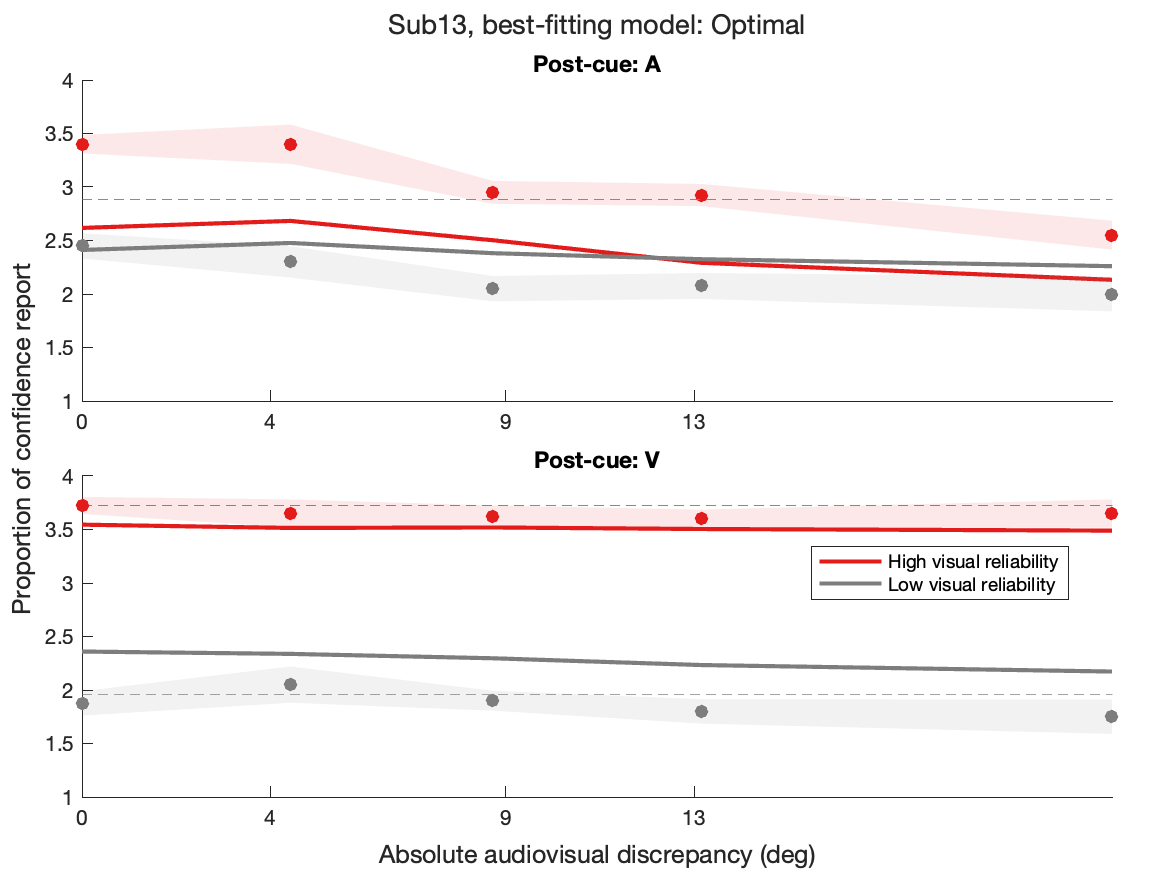
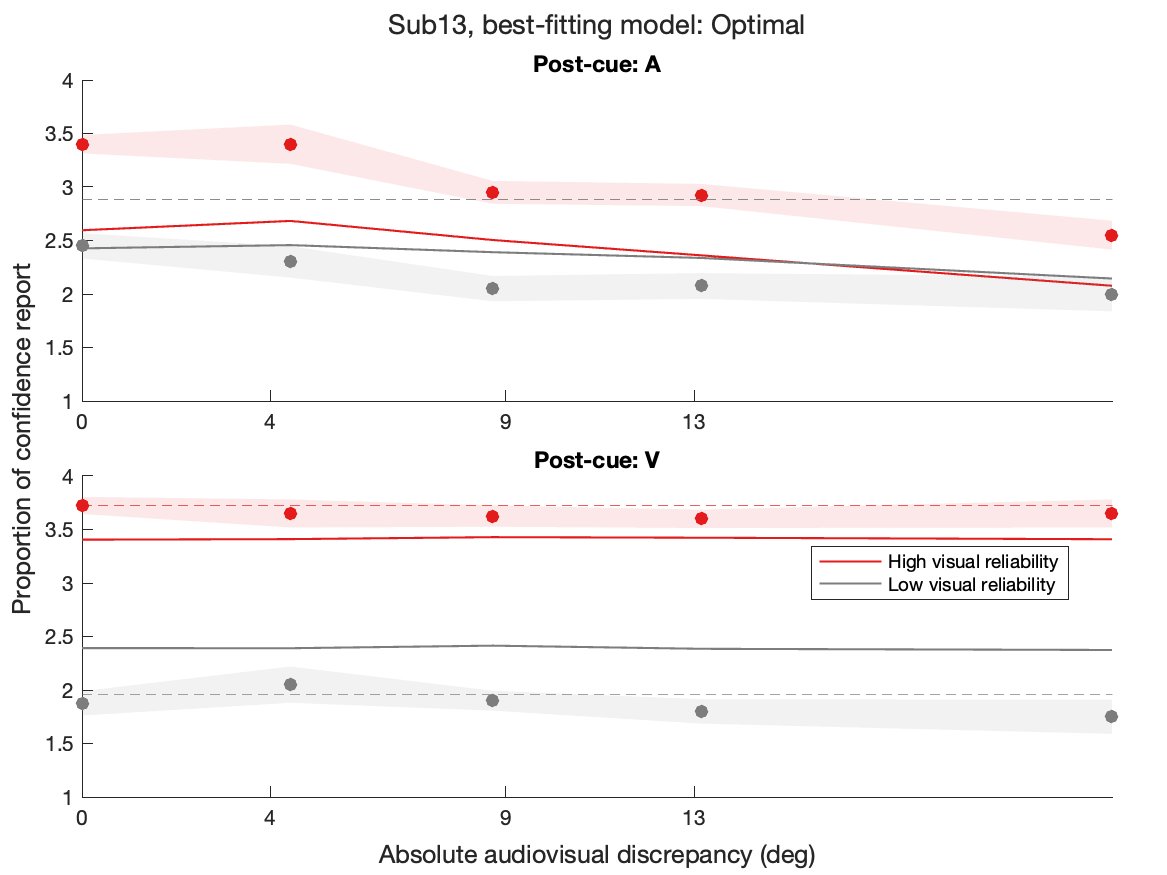
finish prediction figure

Changed region(s): [[0.0617, 0.2469, 0.9563, 0.3394], [0.0617, 0.7097, 0.9563, 0.7714], [0.0617, 0.5863, 0.9563, 0.6789]]

diff --git a/modelFit/uniBiLoc_joint_sharedSigma/plotModelPrediction.m b/modelFit/uniBiLoc_joint_sharedSigma/plotModelPrediction.m
@@ -1,7 +1,7 @@
 clear; close all; rng('shuffle');
 
-sub_slc = 13;
-ses_slc = 1; % bimodal sessions
+sub_slc = 15;
+ses_slc = 1:3; % bimodal sessions
 
 models = {'Heuristic','Suboptimal','Optimal'};
 
@@ -18,6 +18,7 @@ addpath(genpath(result_dir))
 %% plot set up
 
 lw = 1;
+pred_lw = 2;
 fontSZ = 15;
 titleSZ = 20;
 dotSZ = 80;
@@ -68,19 +69,20 @@ for i = 1:2
 end
 sgtitle(sprintf('Sub%i, best-fitting model: %s', sub_slc, models{d}), 'FontSize', titleSZ)
 
-%% plot unimodal localization
+%% first panel: plot unimodal localization
 
 figure; 
-set(gcf, 'Position',[10 10 1500 500])
+set(gcf, 'Position',[10 10 1500 800])
 
 subplot(2,3,[1,4])
+title('Unimodal localization', 'FontSize',titleSZ)
 set(gca, 'LineWidth', lw, 'FontSize', fontSZ, 'TickDir', 'out')
 xlabel('Stimulus location', 'FontSize', titleSZ)
 ylabel('Localization','FontSize', titleSZ)
 hold on
-axis equal
+
 % sA = sV for uni task
-lim = max(model.uni_sA,[],'all');
+lim = 15;
 
 for j = 1:3
 
@@ -96,15 +98,14 @@ for j = 1:3
         'HandleVisibility', 'off');
 
     % prediction
-    plot(model.uni_sA, mean(pred.uni_loc(j,:,:),3),'-','LineWidth',lw,'Color',clt(j,:));
+    plot(model.uni_sA, mean(pred.uni_loc(j,:,:),3),'-','LineWidth',pred_lw,'Color',clt(j,:));
 
 end
 plot([-lim, lim], [-lim*1.2, lim*1.2],'k--','LineWidth',lw)
 
-%% analyze data and prediction
+%% second panel: plot unimodal localization
 
 pred.biExpInfo = data.biExpInfo;
-% interpolateOption = false;
 
 [pred_mean_conf, pred_std_mean_conf, pred_uni_pconf, ~,...
     pred_mean_ve, pred_std_ve, ~] = analyze_data(sub_slc, ses_slc, pred);
@@ -118,21 +119,18 @@ num_cue               = numel(cue_label);
 rel_label             = {'High visual reliability','Low visual reliability'};
 num_rel               = numel(rel_label);
 
-figure; hold on
-t = tiledlayout(1, 2);
-title(t,sprintf('Sub%i, best-fitting model: %s', sub_slc, models{d}))
-xlabel(t, 'Audiovisual discrepancy (V-A, deg)');
-ylabel(t, 'Shift of localization');
-t.TileSpacing = 'compact';
-t.Padding = 'compact';
-
+sgtitle(sprintf('Sub%i, best-fitting model: %s', sub_slc, models{d}),'FontSize',titleSZ)
+sp_idx = [2,5];
 for cue = 1:num_cue
 
-    nexttile
+    subplot(2,3,sp_idx(cue))
+    set(gca, 'LineWidth', lw, 'FontSize', fontSZ, 'TickDir', 'out')
+
     title(cue_label{cue})
-    axis equal
     hold on
     xticks(round(raw_diff))
+    xtickangle(45)
+    ylabel('Shift of localization');
 
     for rel = 1:num_rel
 
@@ -145,12 +143,8 @@ for cue = 1:num_cue
             clt(rel+1,:),'EdgeColor','none','FaceAlpha',0.1, ...
             'HandleVisibility', 'off');
 
-%         % Add error bars
-%         errorbar(raw_diff, squeeze(mean_ve(:, cue, rel)), squeeze(std_ve(:, cue, rel)), 'o', ...
-%             'Color', clt(rel+1,:), 'LineStyle', 'none', 'LineWidth', 2, 'CapSize', 0);
-
         % plot prediction
-        l(rel) = plot(raw_diff, squeeze(pred_mean_ve(:, cue, rel)), '-','Color',clt(rel+1,:),'LineWidth',lw);
+        l(rel) = plot(raw_diff, squeeze(pred_mean_ve(:, cue, rel)), '-','Color',clt(rel+1,:),'LineWidth',pred_lw);
 
     end
 
@@ -159,25 +153,18 @@ for cue = 1:num_cue
         plot(raw_diff, raw_diff,'k--')
     else
         plot(raw_diff, -raw_diff,'k--')
-        legend([l(:)],rel_label)
+%         legend([l(:)],rel_label)
+        xlabel('Audiovisual discrepancy (V-A, deg)');
     end
 end
 
-saveas(gca, fullfile(out_dir, sprintf('sub%i_bestfittingM%i_loc', sub_slc, d)), 'png')
-
 %% plot confidence report
-
-figure; hold on
-t = tiledlayout(2, 1);
-title(t,sprintf('Sub%i, best-fitting model: %s', sub_slc, models{d}))
-xlabel(t, 'Absolute audiovisual discrepancy (deg)');
-ylabel(t, 'Proportion of confidence report');
-t.TileSpacing = 'compact';
-t.Padding = 'compact';
 
 for cue = 1:num_cue
 
-    nexttile
+    subplot(2,3,cue*3)
+    set(gca, 'LineWidth', lw, 'FontSize', fontSZ, 'TickDir', 'out')
+
     title(cue_label{cue})
     hold on
     xticks(round(abs_diff))
@@ -198,14 +185,15 @@ for cue = 1:num_cue
             'HandleVisibility', 'off');
 
         % plot prediction
-        l(rel) = plot(abs_diff, squeeze(pred_mean_conf(:, cue, rel)), '-', 'Color',clt(rel+1,:),'LineWidth',lw);
+        l(rel) = plot(abs_diff, squeeze(pred_mean_conf(:, cue, rel)), '-', 'Color',clt(rel+1,:),'LineWidth',pred_lw);
 
         % plot unimodal p_confidence
         if cue == 1
             yline(uni_pconf(1),'--','Color',repmat(0.5,1,3))
         else
             yline(uni_pconf(rel+1),'--','Color',clt(rel+1,:))
-            legend([l(:)],rel_label,'Location','best')
+            xlabel('Absolute audiovisual discrepancy (deg)');
+%             legend([l(:)],rel_label,'Location','best')
         end
 
     end    

diff --git a/modelFit/uniBiLoc_joint_sharedSigma/simUni.m b/modelFit/uniBiLoc_joint_sharedSigma/simUni.m
@@ -9,9 +9,9 @@ mA    = randn(1, nrep).*sigA_uni + (fixP.uni_sA' * aA + bA);
 mV1    = randn(1, nrep).*sigV1_uni + fixP.uni_sV';
 mV2    = randn(1, nrep).*sigV2_uni + fixP.uni_sV';
 
-shatA = (mA*sigP^2 + muP*sigA_uni^2)./(1/sigA_uni^2 + 1/sigP^2);
-shatV1 = (mV1*sigP^2 + muP*sigV1_uni^2)./(1/sigV1_uni^2 + 1/sigP^2);
-shatV2 = (mV2*sigP^2 + muP*sigV2_uni^2)./(1/sigV2_uni^2 + 1/sigP^2);
+shatA = (mA*sigP^2 + muP*sigA_uni^2)./(sigA_uni^2 + sigP^2);
+shatV1 = (mV1*sigP^2 + muP*sigV1_uni^2)./(sigV1_uni^2 + sigP^2);
+shatV2 = (mV2*sigP^2 + muP*sigV2_uni^2)./(sigV2_uni^2 + sigP^2);
 
 loc(1,:,:) = randn(size(shatA)).*fixP.sigMotor + shatA;
 loc(2,:,:) = randn(size(shatV1)).*fixP.sigMotor + shatV1;

diff --git a/modelFit/uniBiLoc_joint_sharedSigma/modelFit.m b/modelFit/uniBiLoc_joint_sharedSigma/modelFit.m
@@ -3,8 +3,8 @@
 
 clear; close all; rng('shuffle');
 
-sub_slc = 13;
-ses_slc = 1; % bimodal sessions
+sub_slc = 15;
+ses_slc = 1:3; % bimodal sessions
 
 %% manage path
 
